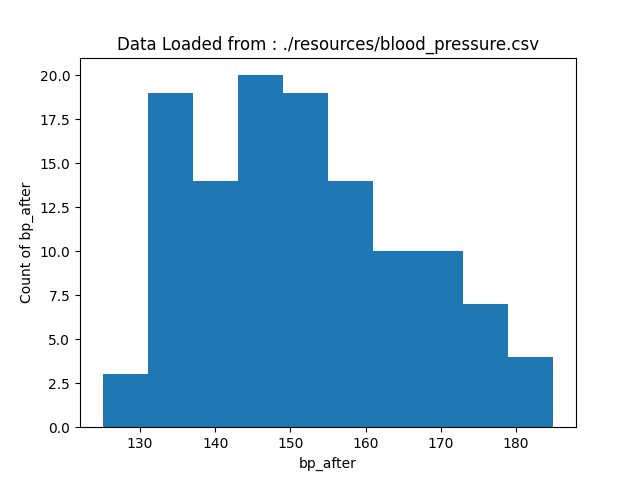
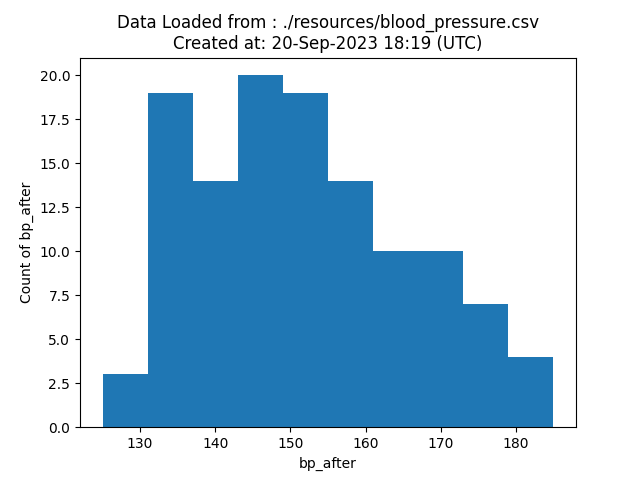
updated files

Changed region(s): [[0.1875, 0.0312, 0.8438, 0.125]]

diff --git a/codes/project_codes/main_script.py b/codes/project_codes/main_script.py
@@ -2,7 +2,8 @@
 import polars as pl
 import matplotlib.pyplot as plt
 from lib import select_col, summary_stats
-
+from datetime import datetime
+import os
 
 def descriptive_stats(fname, col=None):
     df = pl.read_csv(fname)
@@ -13,19 +14,34 @@ def descriptive_stats(fname, col=None):
     if col_name == -1:
         return "Please select valid column number"
 
-    # create Histogram and save as output.png in output folder
-    plt.hist(df.select(col_name))
-    plt.ylabel("Count of " + col_name)
-    plt.xlabel(col_name)
-    plt.title("Data Loaded from : " + fname)
-    plt.savefig("./outputs/output.png")  # change the filepath here in case reequired
-    plt.clf()
 
     # calculate the summary statistics and store in a list
     result = summary_stats(df, col_name)
 
+    #Clear the exiting output.png and summary.md files if they exist
+    if os.path.isfile("./outputs/output.png"):
+        os.remove("./outputs/output.png")
+    if os.path.isfile("./outputs/summary.md"):
+        os.remove("./outputs/summary.md")
+
+    #crete timestamp to add in files
+    now = datetime.now()
+    dt_string = now.strftime("%d-%b-%Y %H:%M") + " (UTC)"
+
+    # create Histogram and save as output.png in output folder
+    plt.hist(df.select(col_name))
+    plt.ylabel("Count of " + col_name)
+    plt.xlabel(col_name)
+    plt.title("Data Loaded from : " + fname + "\n" + "Created at: " + dt_string)
+    plt.savefig("./outputs/output.png")  # change the filepath here in case reequired
+    plt.clf()
+
     # Write the summary statistics to a summary.md in output folder
     with open("./outputs/summary.md", "w", encoding="utf-8") as f:
+        f.write("# Summary Statistics" +" file Generated at " + dt_string + "\n" )
+        f.write("## Data Loaded from : " + fname + "\n")
+        f.write("## Selected Column : " + col_name + "\n")
+        f.write("\n")
         f.write("Mean: " + str(result[0]) + "\n")
         f.write("\n")
         f.write("Median: " + str(result[1]) + "\n")

diff --git a/outputs/summary.md b/outputs/summary.md
@@ -1,3 +1,7 @@
+# Summary Statistics file Generated at 20-Sep-2023 18:19 (UTC)
+## Data Loaded from : ./resources/blood_pressure.csv
+## Selected Column : bp_after
+
 Mean: 151.35833333333332
 
 Median: 149.5
